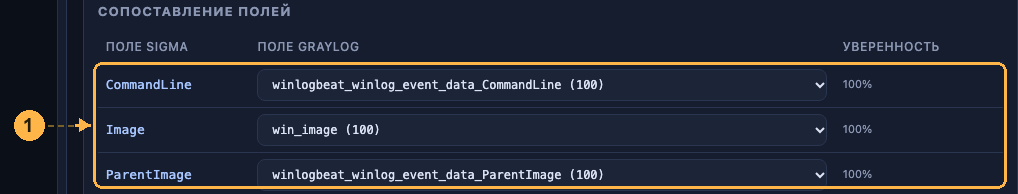
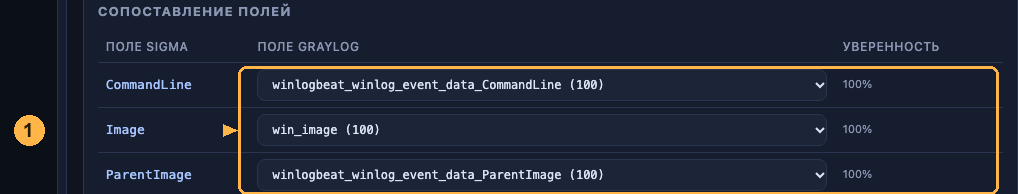
guide: полосы вместо рамок, навигация ссылками
- ссылки в конце руководства ведут на разные вкладки (было: одна и та же)
- иллюстрации: полоса-указатель по найденному элементу, без жёстких координат
- рамки больше не срезают подписи и не перечёркивают текст
- из README убран абзац про служебный скрипт разметки

diff --git a/app/static/index.html b/app/static/index.html
@@ -117,6 +117,9 @@
     background:rgba(79,140,255,.07);border-radius:0 8px 8px 0;color:#bcd0f0}
   .tip b{color:#fff}
   .guide-foot{display:flex;gap:10px;flex-wrap:wrap;margin-top:8px}
+  .btn-link{display:inline-block;padding:8px 14px;border:1px solid var(--line);border-radius:8px;
+    color:var(--text);text-decoration:none;font-size:14px}
+  .btn-link:hover{border-color:var(--accent);color:#fff}
   .steps-nav{display:flex;gap:6px;flex-wrap:wrap;margin-bottom:18px}
   .steps-nav a{font-size:12px;color:var(--muted);text-decoration:none;border:1px solid var(--line);
     border-radius:999px;padding:4px 10px}
@@ -286,8 +289,8 @@
         пользователь с паролем или API-токен.</p>
       <div class="shot">
         <img src="/static/guide/g1-connection.png" alt="Настройки подключения к Graylog">
-        <span class="halo" style="left:3.1%;top:14.2%"></span>
-        <span class="halo" style="left:3.1%;top:92.5%"></span>
+        <span class="halo" style="left:3.1%;top:11.3%"></span>
+        <span class="halo" style="left:3.1%;top:85.7%"></span>
       </div>
       <ul>
         <li><b>1</b> — URL и авторизация. Публичный URL нужен для ссылок «в поиск» и «открыть детект».</li>
@@ -303,13 +306,12 @@
       <p>Вкладка <b>«Конвертер»</b>. Правило можно получить четырьмя способами.</p>
       <div class="shot">
         <img src="/static/guide/g2-sources.png" alt="Источники Sigma-правил">
-        <span class="halo" style="left:3.8%;top:56.6%"></span>
-        <span class="halo" style="left:89.9%;top:29.7%"></span>
+        <span class="halo" style="left:3.8%;top:53.0%"></span>
       </div>
       <ul>
-        <li><b>1</b> — «известные источники…»: SigmaHQ (все правила, core, master), ThreatHunting Keywords,
-          SIGMA detection rules. Есть фильтры по продукту и уровню.</li>
-        <li><b>2</b> — «Загрузить»: качает набор (первый раз ~6 секунд), кэш на сутки.</li>
+        <li><b>1</b> — строка загрузки из каталога: «известные источники…» (SigmaHQ: все правила,
+          core, master; ThreatHunting Keywords; SIGMA detection rules), фильтры по продукту и уровню,
+          и кнопка <b>«Загрузить»</b> — качает набор (первый раз ~6 секунд), кэш на сутки.</li>
         <li>Ещё два пути: <b>«Пример ↻»</b> подставляет случайное правило из встроенных,
           а <b>«Файлы…» / «Папка…»</b> и drag&amp;drop берут ваши YAML, zip или tar.gz.</li>
       </ul>
@@ -321,8 +323,8 @@
       <p>Нажмите <b>«Конвертировать»</b> — справа появится запрос для Graylog.</p>
       <div class="shot">
         <img src="/static/guide/g3-result.png" alt="Результат конвертации">
-        <span class="halo" style="left:2.8%;top:62.3%"></span>
-        <span class="halo" style="left:63.9%;top:91.3%"></span>
+        <span class="halo" style="left:2.8%;top:64.2%"></span>
+        <span class="halo" style="left:2.8%;top:88.1%"></span>
       </div>
       <ul>
         <li><b>1</b> — сам запрос. Кнопки <b>«копировать»</b> и <b>«в поиск ↗»</b> — вторая открывает
@@ -343,7 +345,7 @@
         инструмент уверен.</p>
       <div class="shot">
         <img src="/static/guide/g4-mapping.png" alt="Сопоставление полей">
-        <span class="halo" style="left:2.8%;top:64.4%"></span>
+        <span class="halo" style="left:2.8%;top:67.0%"></span>
       </div>
       <ul>
         <li><b>1</b> — выпадающий список: можно выбрать другое поле вручную.</li>
@@ -360,7 +362,7 @@
       <p>Прежде чем создавать детект, посмотрите, как правило вело себя последние 30 дней.</p>
       <div class="shot">
         <img src="/static/guide/g5-history.png" alt="Прогон по истории">
-        <span class="halo" style="left:2.8%;top:21.0%"></span>
+        <span class="halo" style="left:2.8%;top:40.9%"></span>
       </div>
       <ul>
         <li><b>1</b> — гистограмма по дням, сумма и максимум за сутки.</li>
@@ -383,7 +385,7 @@
       </ul>
       <div class="shot">
         <img src="/static/guide/g7-detect.png" alt="Список созданных детектов">
-        <span class="halo" style="left:2.0%;top:43.0%"></span>
+        <span class="halo" style="left:2.0%;top:32.0%"></span>
       </div>
       <div class="tip">Детект создаётся с <b>alert: false</b> и без уведомлений. Включить нотификации
         можно в самом Graylog — инструмент намеренно этого не делает.</div>
@@ -395,8 +397,8 @@
       <p>Вкладка <b>«Стримы»</b> показывает, насколько ваши данные вообще подходят для правил Sigma.</p>
       <div class="shot">
         <img src="/static/guide/g6-streams.png" alt="Анализ стримов">
-        <span class="halo" style="left:1.7%;top:23.8%"></span>
-        <span class="halo" style="left:1.7%;top:68.6%"></span>
+        <span class="halo" style="left:1.7%;top:23.0%"></span>
+        <span class="halo" style="left:1.7%;top:76.5%"></span>
       </div>
       <ul>
         <li><b>1</b> — стрим: продукт определён по полям, видно объём и число полей.</li>
@@ -420,9 +422,9 @@
         <li>Фильтры и список полей кэшируются — «Обновить поля» в шапке сбрасывает кэш.</li>
       </ul>
       <div class="guide-foot">
-        <button class="ghost" id="guide-to-settings">Перейти в настройки</button>
-        <button class="ghost" id="guide-to-convert">К конвертеру</button>
-        <button class="ghost" id="guide-to-streams">К стримам</button>
+        <a class="btn-link" href="#settings">Перейти в настройки</a>
+        <a class="btn-link" href="#convert">К конвертеру</a>
+        <a class="btn-link" href="#streams">К стримам</a>
       </div>
     </div>
   </div>
@@ -1448,10 +1450,7 @@ function switchView(name, updateHash = true) {
 document.querySelectorAll('nav.tabs button').forEach(b => b.onclick = () => switchView(b.dataset.view));
 
 // ------------------------------------------------------------------ руководство
-['settings', 'convert', 'streams'].forEach(name => {
-  const btn = document.getElementById('guide-to-' + name);
-  if (btn) btn.onclick = () => { switchView(name); window.scrollTo({ top: 0, behavior: 'smooth' }); };
-});
+
 
 // ------------------------------------------------------------------ стримы
 let streamsState = { items: [], active: null };

diff --git a/tools/annotate_guide.py b/tools/annotate_guide.py
@@ -1,7 +1,8 @@
-"""Готовит иллюстрации для руководства: обводит элементы, рисует номера и стрелки.
+"""Готовит иллюстрации для руководства: полоса-указатель + номер в левом поле.
 
-Скрипт не входит в рантайм — запускается вручную при обновлении скриншотов.
-На выходе: PNG с аннотациями + JSON с центрами обводок для CSS-анимации.
+Скрипт не входит в рантайм: запускается вручную при обновлении скриншотов.
+Положение элементов определяется по цвету фона, а не жёсткими координатами,
+поэтому мелкие правки интерфейса не ломают разметку.
 """
 from __future__ import annotations
 
@@ -15,59 +16,66 @@ ACCENT = (255, 181, 71)
 BADGE_TEXT = (36, 26, 5)
 SRC = Path("docs/screenshots")
 OUT = Path("app/static/media/guide")
-FONT_CANDIDATES = [
-    "/System/Library/Fonts/Supplemental/Arial Bold.ttf",
-    "/System/Library/Fonts/Helvetica.ttc",
-]
+GUTTER = 58
+FONTS = ["/System/Library/Fonts/Supplemental/Arial Bold.ttf",
+         "/System/Library/Fonts/Helvetica.ttc"]
 
-# прямоугольники в координатах исходных скриншотов: (x1, y1, x2, y2)
+INPUT_BG = (28, 36, 56)     # поля ввода и строки таблиц
+QUERY_BG = (11, 16, 24)     # блок запроса и история
+CARD_BG = (17, 24, 40)      # карточки
+
+# target: (что ищем, x-проба, y-от, y-до, цвет) ; band: (x1, x2) в координатах кропа
 STEPS = {
-    # marks: (номер, прямоугольник в координатах исходника, смещение бейджа или (x, y) бейджа)
     "g1-connection": {
-        "source": "04-settings.png", "crop": (10, 70, 900, 670),
+        "source": "04-settings.png", "crop": (10, 70, 900, 700),
         "marks": [
-            ("1", (270, 138, 850, 172)),
-            ("2", (30, 606, 228, 644)),
+            {"label": "1", "band_y": (121, 162), "band": (250, 880)},
+            {"label": "2", "band_y": (588, 632), "band": (18, 350)},
         ],
     },
     "g2-sources": {
-        "source": "01-converter.png", "crop": (10, 100, 706, 275),
+        "source": "01-converter.png", "crop": (10, 95, 706, 280),
         "marks": [
-            ("1", (25, 183, 300, 215)),
-            ("2", (598, 183, 697, 215), (688, 152)),
+            {"label": "1", "probe": (250, 160, 240, INPUT_BG), "band": (18, 690)},
         ],
     },
     "g3-result": {
-        "source": "01-converter.png", "crop": (700, 92, 1660, 530),
+        "source": "01-converter.png", "crop": (700, 92, 1660, 545),
         "marks": [
-            ("1", (745, 273, 1630, 458)),
-            ("2", (1105, 476, 1250, 508), (1350, 492)),
+            {"label": "1", "band_y": (300, 466), "band": (24, 950)},
+            {"label": "2", "band_y": (466, 516), "band": (24, 580)},
         ],
     },
     "g4-mapping": {
         "source": "01-converter.png", "crop": (700, 548, 1660, 742),
-        "marks": [("1", (735, 610, 1648, 736))],
+        "marks": [
+            {"label": "1", "band_y": (614, 742), "band": (180, 940)},
+        ],
+    },
+    "g5-history": {
+        "source": "05-history.png", "crop": (700, 425, 1660, 745),
+        "marks": [
+            {"label": "1", "probe": (765, 425, 700, (17, 24, 40)), "band": (20, 950)},
+        ],
     },
     "g6-streams": {
-        "source": "02-streams.png", "crop": (10, 60, 1670, 872),
+        "source": "02-streams.png", "crop": (10, 60, 1670, 880),
         "marks": [
-            ("1", (30, 230, 1650, 276)),
-            ("2", (30, 600, 706, 634)),
+            {"label": "1", "probe": (1500, 200, 260, INPUT_BG), "band": (18, 1650)},
+            {"label": "2", "probe": (1200, 620, 700, INPUT_BG), "band": (18, 1650)},
         ],
     },
     "g7-detect": {
         "source": "03-detections.png", "crop": (10, 60, 1400, 520),
-        "marks": [("1", (34, 244, 292, 272))],
-    },
-    "g5-history": {
-        "source": "05-history.png", "crop": (700, 425, 1660, 740),
-        "marks": [("1", (742, 433, 1628, 550))],
+        "marks": [
+            {"label": "1", "probe": (700, 180, 300, (17, 24, 40)), "band": (18, 1380)},
+        ],
     },
 }
 
 
 def font(size: int):
-    for path in FONT_CANDIDATES:
+    for path in FONTS:
         if Path(path).exists():
             try:
                 return ImageFont.truetype(path, size)
@@ -76,82 +84,76 @@ def font(size: int):
     return ImageFont.load_default()
 
 
-def arrow(draw: ImageDraw.ImageDraw, start: tuple[int, int], end: tuple[int, int]) -> None:
-    draw.line([start, end], fill=ACCENT, width=3)
-    # наконечник
-    dx, dy = end[0] - start[0], end[1] - start[1]
-    length = max((dx * dx + dy * dy) ** 0.5, 1)
-    ux, uy = dx / length, dy / length
-    px, py = -uy, ux
-    size = 11
-    p1 = (end[0] - ux * size + px * size * 0.55, end[1] - uy * size + py * size * 0.55)
-    p2 = (end[0] - ux * size - px * size * 0.55, end[1] - uy * size - py * size * 0.55)
-    draw.polygon([end, p1, p2], fill=ACCENT)
+def find_band(im: Image.Image, probe, tol: int = 8, min_h: int = 16) -> tuple[int, int] | None:
+    """Ищет вертикальную полосу цвета probe[3] в столбце probe[0] между probe[1] и probe[2]."""
+    x, y0, y1, colour = probe
+    run = None
+    for y in range(y0, min(y1, im.height)):
+        p = im.getpixel((x, y))[:3]
+        hit = all(abs(p[i] - colour[i]) <= tol for i in range(3))
+        if hit and run is None:
+            run = y
+        elif not hit and run is not None:
+            if y - run >= min_h:
+                return run, y
+            run = None
+    if run is not None and min(y1, im.height) - run >= min_h:
+        return run, min(y1, im.height)
+    return None
 
 
-def annotate(name: str, spec: dict) -> dict:
-    """Кадр + левое поле с номерами: стрелки идут из поля в картинку, пересечений нет."""
-    src_path = (SRC / spec["source"]).resolve()
-    im = Image.open(src_path).convert("RGB")
+def annotate(name: str, spec: dict, src_dir: Path = SRC) -> dict:
+    im = Image.open(src_dir / spec["source"]).convert("RGB")
     x1, y1, x2, y2 = spec["crop"]
     shot = im.crop(spec["crop"])
-
-    GUTTER = 58
     canvas = Image.new("RGB", (shot.width + GUTTER, shot.height), (11, 16, 24))
     canvas.paste(shot, (GUTTER, 0))
-    # тонкая граница между полем и кадром
     ImageDraw.Draw(canvas).line([(GUTTER - 1, 0), (GUTTER - 1, shot.height)], fill=(38, 48, 72))
-    draw = ImageDraw.Draw(canvas)
+
+    overlay = Image.new("RGBA", canvas.size, (0, 0, 0, 0))
+    draw = ImageDraw.Draw(overlay)
+    badge_layer = Image.new("RGBA", canvas.size, (0, 0, 0, 0))
+    bdraw = ImageDraw.Draw(badge_layer)
     centers = []
 
-    # проход 1: рамки вокруг элементов
-    for label, box, *rest in spec["marks"]:
-        bx1, by1, bx2, by2 = (box[0]-x1+GUTTER, box[1]-y1, box[2]-x1+GUTTER, box[3]-y1)
-        draw.rounded_rectangle([bx1, by1, bx2, by2], radius=9, outline=ACCENT, width=3)
-
-    # проход 2: бейджи и стрелки
-    for label, box, *rest in spec["marks"]:
-        option = rest[0] if rest else 0
-        dy = option if isinstance(option, int) else 0
-        badge_pos = option if isinstance(option, tuple) else None
-        bx1, by1, bx2, by2 = (box[0] - x1 + GUTTER, box[1] - y1,
-                              box[2] - x1 + GUTTER, box[3] - y1)
+    for mark in spec["marks"]:
+        if "band_y" in mark:
+            band = mark["band_y"]
+        else:
+            band = find_band(im, mark["probe"])
+        if band is None:
+            print(f"  ! {name}: не найдена полоса для метки {mark['label']}")
+            continue
+        top = band[0] - y1
+        bottom = band[1] - y1
+        if "band_y" not in mark:
+            top -= 3
+            bottom += 3
+        bx1, bx2 = mark["band"][0] + GUTTER, mark["band"][1] + GUTTER
+        # подсветка полосы + акцентная линия снизу
+        draw.rounded_rectangle([bx1, top, bx2, bottom], radius=8, outline=ACCENT, width=3)
+        cy = (top + bottom) // 2
 
         r = 15
-        if badge_pos:
-            cx = badge_pos[0] - x1
-            cy = badge_pos[1] - y1
-            right_side = cx > (bx1 + bx2) / 2
-            below = cy < by1 - 4
+        cx = GUTTER // 2
+        # длинный пунктир только если полоса начинается рядом с полем;
+        # иначе — короткая стрелка у края, чтобы не перечёркивать подписи
+        if bx1 - (cx + r) <= 70:
+            for xx in range(cx + r + 4, bx1 - 16, 9):
+                bdraw.line([(xx, cy), (xx + 5, cy)], fill=(150, 118, 48, 255), width=2)
+            arrow_x = bx1 - 16
         else:
-            cx = GUTTER // 2
-            cy = int((by1 + by2) / 2) + dy
-            right_side = False
-        cy = max(r + 4, min(cy, canvas.height - r - 4))
-        cx = max(r + 2, min(cx, canvas.width - r - 2))
-        draw.ellipse([cx - r, cy - r, cx + r, cy + r], fill=ACCENT)
-        draw.text((cx, cy), label, font=font(19), fill=BADGE_TEXT, anchor="mm")
-        if badge_pos and cy < by1 - 4:
-            # бейдж над элементом: короткая стрелка вниз
-            for yy in range(cy + r + 4, by1 - 14, 8):
-                draw.line([(cx, yy), (cx, yy + 4)], fill=(120, 96, 40), width=2)
-            arrow(draw, (cx, by1 - 14), (cx, by1 - 3))
-        elif right_side:
-            # бейдж справа: пунктир от него влево к элементу
-            for xx in range(bx2 + 18, cx - r - 6, 10):
-                draw.line([(xx, cy), (xx + 5, cy)], fill=(120, 96, 40), width=2)
-            arrow(draw, (bx2 + 18, cy), (bx2 + 3, cy))
-        else:
-            for xx in range(cx + r + 4, bx1 - 18, 10):
-                draw.line([(xx, cy), (xx + 5, cy)], fill=(120, 96, 40), width=2)
-            target_y = by2 - 8 if dy > 0 else (by1 + 8 if dy < 0 else cy)
-            arrow(draw, (bx1 - 18, cy), (bx1 - 3, target_y))
-        centers.append({
-            "label": label,
-            "x": round(cx / canvas.width * 100, 1),
-            "y": round(cy / canvas.height * 100, 1),
-        })
+            arrow_x = bx1 - 2
+        bdraw.polygon([(bx1 - 1, cy), (arrow_x - 13, cy - 6), (arrow_x - 13, cy + 6)],
+                      fill=(255, 181, 71, 255))
+        bdraw.ellipse([cx - r, cy - r, cx + r, cy + r], fill=ACCENT)
+        bdraw.text((cx, cy), mark["label"], font=font(19), fill=BADGE_TEXT, anchor="mm")
+        centers.append({"label": mark["label"],
+                        "x": round(cx / canvas.width * 100, 1),
+                        "y": round(cy / canvas.height * 100, 1)})
 
+    canvas = Image.alpha_composite(canvas.convert("RGBA"), overlay)
+    canvas = Image.alpha_composite(canvas, badge_layer).convert("RGB")
     OUT.mkdir(parents=True, exist_ok=True)
     canvas.save(OUT / f"{name}.png")
     return {"size": canvas.size, "centers": centers}
@@ -164,7 +166,7 @@ def main() -> None:
         if only and only != name:
             continue
         result[name] = annotate(name, spec)
-        print(f"{name}: {result[name]['size']} центры={result[name]['centers']}")
+        print(f"{name}: {result[name]['size']} {result[name]['centers']}")
     Path("tools/guide-points.json").write_text(json.dumps(result, ensure_ascii=False, indent=2))
 
 

diff --git a/README.md b/README.md
@@ -44,9 +44,7 @@
 
 В приложении есть вкладка **«Руководство»** — путь от подключения до работающего детекта за
 семь шагов. Каждый шаг — короткий текст и кадр интерфейса, где нужные элементы обведены,
-пронумерованы и подсвечены пульсирующими указателями. Иллюстрации собираются скриптом
-`tools/annotate_guide.py`: он нарезает скриншоты, рисует рамки, номера и стрелки и отдаёт
-координаты для CSS-анимации.
+пронумерованы и подсвечены пульсирующими указателями.
 
 ![Руководство](docs/screenshots/05-guide.png)
 
